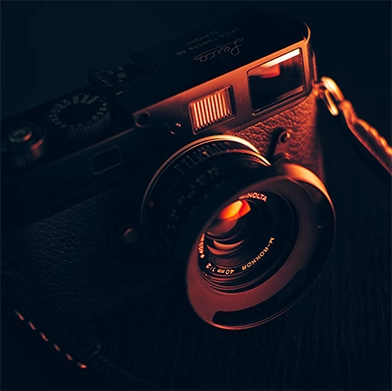
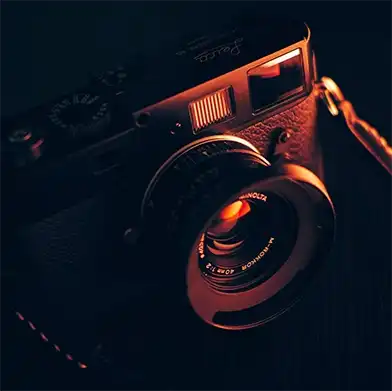
optimisation des images

diff --git a/assets/lazysizes.min.js b/assets/lazysizes.min.js
@@ -1,0 +1,3 @@
+/*! lazysizes - v5.3.2 */
+
+!function(e){var t=function(u,D,f){"use strict";var k,H;if(function(){var e;var t={lazyClass:"lazyload",loadedClass:"lazyloaded",loadingClass:"lazyloading",preloadClass:"lazypreload",errorClass:"lazyerror",autosizesClass:"lazyautosizes",fastLoadedClass:"ls-is-cached",iframeLoadMode:0,srcAttr:"data-src",srcsetAttr:"data-srcset",sizesAttr:"data-sizes",minSize:40,customMedia:{},init:true,expFactor:1.5,hFac:.8,loadMode:2,loadHidden:true,ricTimeout:0,throttleDelay:125};H=u.lazySizesConfig||u.lazysizesConfig||{};for(e in t){if(!(e in H)){H[e]=t[e]}}}(),!D||!D.getElementsByClassName){return{init:function(){},cfg:H,noSupport:true}}var O=D.documentElement,i=u.HTMLPictureElement,P="addEventListener",$="getAttribute",q=u[P].bind(u),I=u.setTimeout,U=u.requestAnimationFrame||I,o=u.requestIdleCallback,j=/^picture$/i,r=["load","error","lazyincluded","_lazyloaded"],a={},G=Array.prototype.forEach,J=function(e,t){if(!a[t]){a[t]=new RegExp("(\\s|^)"+t+"(\\s|$)")}return a[t].test(e[$]("class")||"")&&a[t]},K=function(e,t){if(!J(e,t)){e.setAttribute("class",(e[$]("class")||"").trim()+" "+t)}},Q=function(e,t){var a;if(a=J(e,t)){e.setAttribute("class",(e[$]("class")||"").replace(a," "))}},V=function(t,a,e){var i=e?P:"removeEventListener";if(e){V(t,a)}r.forEach(function(e){t[i](e,a)})},X=function(e,t,a,i,r){var n=D.createEvent("Event");if(!a){a={}}a.instance=k;n.initEvent(t,!i,!r);n.detail=a;e.dispatchEvent(n);return n},Y=function(e,t){var a;if(!i&&(a=u.picturefill||H.pf)){if(t&&t.src&&!e[$]("srcset")){e.setAttribute("srcset",t.src)}a({reevaluate:true,elements:[e]})}else if(t&&t.src){e.src=t.src}},Z=function(e,t){return(getComputedStyle(e,null)||{})[t]},s=function(e,t,a){a=a||e.offsetWidth;while(a<H.minSize&&t&&!e._lazysizesWidth){a=t.offsetWidth;t=t.parentNode}return a},ee=function(){var a,i;var t=[];var r=[];var n=t;var s=function(){var e=n;n=t.length?r:t;a=true;i=false;while(e.length){e.shift()()}a=false};var e=function(e,t){if(a&&!t){e.apply(this,arguments)}else{n.push(e);if(!i){i=true;(D.hidden?I:U)(s)}}};e._lsFlush=s;return e}(),te=function(a,e){return e?function(){ee(a)}:function(){var e=this;var t=arguments;ee(function(){a.apply(e,t)})}},ae=function(e){var a;var i=0;var r=H.throttleDelay;var n=H.ricTimeout;var t=function(){a=false;i=f.now();e()};var s=o&&n>49?function(){o(t,{timeout:n});if(n!==H.ricTimeout){n=H.ricTimeout}}:te(function(){I(t)},true);return function(e){var t;if(e=e===true){n=33}if(a){return}a=true;t=r-(f.now()-i);if(t<0){t=0}if(e||t<9){s()}else{I(s,t)}}},ie=function(e){var t,a;var i=99;var r=function(){t=null;e()};var n=function(){var e=f.now()-a;if(e<i){I(n,i-e)}else{(o||r)(r)}};return function(){a=f.now();if(!t){t=I(n,i)}}},e=function(){var v,m,c,h,e;var y,z,g,p,C,b,A;var n=/^img$/i;var d=/^iframe$/i;var E="onscroll"in u&&!/(gle|ing)bot/.test(navigator.userAgent);var _=0;var w=0;var M=0;var N=-1;var L=function(e){M--;if(!e||M<0||!e.target){M=0}};var x=function(e){if(A==null){A=Z(D.body,"visibility")=="hidden"}return A||!(Z(e.parentNode,"visibility")=="hidden"&&Z(e,"visibility")=="hidden")};var W=function(e,t){var a;var i=e;var r=x(e);g-=t;b+=t;p-=t;C+=t;while(r&&(i=i.offsetParent)&&i!=D.body&&i!=O){r=(Z(i,"opacity")||1)>0;if(r&&Z(i,"overflow")!="visible"){a=i.getBoundingClientRect();r=C>a.left&&p<a.right&&b>a.top-1&&g<a.bottom+1}}return r};var t=function(){var e,t,a,i,r,n,s,o,l,u,f,c;var d=k.elements;if((h=H.loadMode)&&M<8&&(e=d.length)){t=0;N++;for(;t<e;t++){if(!d[t]||d[t]._lazyRace){continue}if(!E||k.prematureUnveil&&k.prematureUnveil(d[t])){R(d[t]);continue}if(!(o=d[t][$]("data-expand"))||!(n=o*1)){n=w}if(!u){u=!H.expand||H.expand<1?O.clientHeight>500&&O.clientWidth>500?500:370:H.expand;k._defEx=u;f=u*H.expFactor;c=H.hFac;A=null;if(w<f&&M<1&&N>2&&h>2&&!D.hidden){w=f;N=0}else if(h>1&&N>1&&M<6){w=u}else{w=_}}if(l!==n){y=innerWidth+n*c;z=innerHeight+n;s=n*-1;l=n}a=d[t].getBoundingClientRect();if((b=a.bottom)>=s&&(g=a.top)<=z&&(C=a.right)>=s*c&&(p=a.left)<=y&&(b||C||p||g)&&(H.loadHidden||x(d[t]))&&(m&&M<3&&!o&&(h<3||N<4)||W(d[t],n))){R(d[t]);r=true;if(M>9){break}}else if(!r&&m&&!i&&M<4&&N<4&&h>2&&(v[0]||H.preloadAfterLoad)&&(v[0]||!o&&(b||C||p||g||d[t][$](H.sizesAttr)!="auto"))){i=v[0]||d[t]}}if(i&&!r){R(i)}}};var a=ae(t);var S=function(e){var t=e.target;if(t._lazyCache){delete t._lazyCache;return}L(e);K(t,H.loadedClass);Q(t,H.loadingClass);V(t,B);X(t,"lazyloaded")};var i=te(S);var B=function(e){i({target:e.target})};var T=function(e,t){var a=e.getAttribute("data-load-mode")||H.iframeLoadMode;if(a==0){e.contentWindow.location.replace(t)}else if(a==1){e.src=t}};var F=function(e){var t;var a=e[$](H.srcsetAttr);if(t=H.customMedia[e[$]("data-media")||e[$]("media")]){e.setAttribute("media",t)}if(a){e.setAttribute("srcset",a)}};var s=te(function(t,e,a,i,r){var n,s,o,l,u,f;if(!(u=X(t,"lazybeforeunveil",e)).defaultPrevented){if(i){if(a){K(t,H.autosizesClass)}else{t.setAttribute("sizes",i)}}s=t[$](H.srcsetAttr);n=t[$](H.srcAttr);if(r){o=t.parentNode;l=o&&j.test(o.nodeName||"")}f=e.firesLoad||"src"in t&&(s||n||l);u={target:t};K(t,H.loadingClass);if(f){clearTimeout(c);c=I(L,2500);V(t,B,true)}if(l){G.call(o.getElementsByTagName("source"),F)}if(s){t.setAttribute("srcset",s)}else if(n&&!l){if(d.test(t.nodeName)){T(t,n)}else{t.src=n}}if(r&&(s||l)){Y(t,{src:n})}}if(t._lazyRace){delete t._lazyRace}Q(t,H.lazyClass);ee(function(){var e=t.complete&&t.naturalWidth>1;if(!f||e){if(e){K(t,H.fastLoadedClass)}S(u);t._lazyCache=true;I(function(){if("_lazyCache"in t){delete t._lazyCache}},9)}if(t.loading=="lazy"){M--}},true)});var R=function(e){if(e._lazyRace){return}var t;var a=n.test(e.nodeName);var i=a&&(e[$](H.sizesAttr)||e[$]("sizes"));var r=i=="auto";if((r||!m)&&a&&(e[$]("src")||e.srcset)&&!e.complete&&!J(e,H.errorClass)&&J(e,H.lazyClass)){return}t=X(e,"lazyunveilread").detail;if(r){re.updateElem(e,true,e.offsetWidth)}e._lazyRace=true;M++;s(e,t,r,i,a)};var r=ie(function(){H.loadMode=3;a()});var o=function(){if(H.loadMode==3){H.loadMode=2}r()};var l=function(){if(m){return}if(f.now()-e<999){I(l,999);return}m=true;H.loadMode=3;a();q("scroll",o,true)};return{_:function(){e=f.now();k.elements=D.getElementsByClassName(H.lazyClass);v=D.getElementsByClassName(H.lazyClass+" "+H.preloadClass);q("scroll",a,true);q("resize",a,true);q("pageshow",function(e){if(e.persisted){var t=D.querySelectorAll("."+H.loadingClass);if(t.length&&t.forEach){U(function(){t.forEach(function(e){if(e.complete){R(e)}})})}}});if(u.MutationObserver){new MutationObserver(a).observe(O,{childList:true,subtree:true,attributes:true})}else{O[P]("DOMNodeInserted",a,true);O[P]("DOMAttrModified",a,true);setInterval(a,999)}q("hashchange",a,true);["focus","mouseover","click","load","transitionend","animationend"].forEach(function(e){D[P](e,a,true)});if(/d$|^c/.test(D.readyState)){l()}else{q("load",l);D[P]("DOMContentLoaded",a);I(l,2e4)}if(k.elements.length){t();ee._lsFlush()}else{a()}},checkElems:a,unveil:R,_aLSL:o}}(),re=function(){var a;var n=te(function(e,t,a,i){var r,n,s;e._lazysizesWidth=i;i+="px";e.setAttribute("sizes",i);if(j.test(t.nodeName||"")){r=t.getElementsByTagName("source");for(n=0,s=r.length;n<s;n++){r[n].setAttribute("sizes",i)}}if(!a.detail.dataAttr){Y(e,a.detail)}});var i=function(e,t,a){var i;var r=e.parentNode;if(r){a=s(e,r,a);i=X(e,"lazybeforesizes",{width:a,dataAttr:!!t});if(!i.defaultPrevented){a=i.detail.width;if(a&&a!==e._lazysizesWidth){n(e,r,i,a)}}}};var e=function(){var e;var t=a.length;if(t){e=0;for(;e<t;e++){i(a[e])}}};var t=ie(e);return{_:function(){a=D.getElementsByClassName(H.autosizesClass);q("resize",t)},checkElems:t,updateElem:i}}(),t=function(){if(!t.i&&D.getElementsByClassName){t.i=true;re._();e._()}};return I(function(){H.init&&t()}),k={cfg:H,autoSizer:re,loader:e,init:t,uP:Y,aC:K,rC:Q,hC:J,fire:X,gW:s,rAF:ee}}(e,e.document,Date);e.lazySizes=t,"object"==typeof module&&module.exports&&(module.exports=t)}("undefined"!=typeof window?window:{});

diff --git a/index.html b/index.html
@@ -2,21 +2,24 @@
 <html lang="fr">
 
 <head>
-	<title>Nina Carducci - Photographe</title>
 	<meta charset="utf-8" />
 	<meta name="viewport" content="width=device-width, initial-scale=1.0">
-	<meta name="description" content="Nina Carducci - Photographe">
+
+	<!-- <link rel="preconnect" href="https://fonts.googleapis.com"> -->
+	<link rel="preconnect" href="https://fonts.gstatic.com" crossorigin>
+	<link href="https://fonts.googleapis.com/css2?family=Inter&family=Spectral:ital,wght@0,400;1,300;1,400;1,800&display=swap" rel="stylesheet">
+
+	<link rel="stylesheet" href="./assets/bootstrap/bootstrap.min.css">
+	<link rel="stylesheet" href="./assets/style.min.css" media="all">
+
+	<title>Photographe - Nina Carducci</title>
+	<meta name="description" content="Photographe - Nina Carducci">
 	<meta name="theme-color" content="#FFFFFF" />
+
 </head>
 
 <body>
-	<link media="all" rel="stylesheet" href="https://cdn.jsdelivr.net/npm/bootstrap@5.3.2/dist/css/bootstrap.min.css"
-		integrity="sha384-T3c6CoIi6uLrA9TneNEoa7RxnatzjcDSCmG1MXxSR1GAsXEV/Dwwykc2MPK8M2HN" crossorigin="anonymous">
-	<link media="all" rel="stylesheet" href="./assets/style.min.css">
-	<link media="all" rel="preconnect" href="https://fonts.gstatic.com" crossorigin="">
-	<link media="all" rel="preconnect"
-		href="https://fonts.googleapis.com/css2?family=Inter&amp;family=Spectral:ital,wght@0,400;1,300;1,400;1,800&amp;display=swap"
-		as="style" onload="this.onload=null;this.rel='stylesheet'">
+
 
 	<div class="top-header">
 		<h1 class="name">Nina Carducci</h1>
@@ -44,22 +47,23 @@
 			</div>
 			<div class="carousel-inner">
 				<div class="carousel-item active">
-					<img srcset="./assets/images/slider/ryoji-iwata-wUZjnOv7t0g-unsplash-1440.webp 1100w,
-					./assets/images/slider/ryoji-iwata-wUZjnOv7t0g-unsplash-720.webp 720w" 
-					src="./assets/images/slider/ryoji-iwata-wUZjnOv7t0g-unsplash-1440.webp"
-					class="d-block w-100 lazy" alt="Homme traverstant la rue">
+					<img src="./assets/images/slider/ryoji-iwata-wUZjnOv7t0g-unsplash-1440.webp"
+					class="d-block w-100 lazyload" alt="Homme traverstant la rue" 
+					srcset="./assets/images/slider/ryoji-iwata-wUZjnOv7t0g-unsplash-1440.webp 1100w,
+					./assets/images/slider/ryoji-iwata-wUZjnOv7t0g-unsplash-720.webp 720w" >
 				</div>
 				<div class="carousel-item">
-					<img srcset="./assets/images/slider/nicholas-green-nPz8akkUmDI-unsplash-1100.webp 1100w, 
-					./assets/images/slider/ryoji-iwata-wUZjnOv7t0g-unsplash-720.webp 720w"
-					src="./assets/images/slider/ryoji-iwata-wUZjnOv7t0g-unsplash-1440.webp" 
-					class="d-block w-100 lazy" alt="Spectateurs durant un concert">
+					<img src="./assets/images/slider/ryoji-iwata-wUZjnOv7t0g-unsplash-1440.webp" 
+					class="d-block w-100 lazyload" alt="Spectateurs durant un concert" loading="lazy"
+					srcset="./assets/images/slider/nicholas-green-nPz8akkUmDI-unsplash-1100.webp 1100w, 
+					./assets/images/slider/ryoji-iwata-wUZjnOv7t0g-unsplash-720.webp 720w">
 				</div>
 				<div class="carousel-item">
-					<img srcset="./assets/images/slider/edward-cisneros-3_h6-1NPDGw-unsplash-1100.webp 1100w,
-					./assets/images/slider/edward-cisneros-3_h6-1NPDGw-unsplash-720.webp 720w"
-					src="./assets/images/slider/edward-cisneros-3_h6-1NPDGw-unsplash-1440.webp"
-						class="d-block w-100 lazy" alt="Mariage d'un couple">
+					<img src="./assets/images/slider/edward-cisneros-3_h6-1NPDGw-unsplash-1440.webp"
+					class="d-block w-100 lazyload" alt="Mariage d'un couple" loading="lazy"
+					srcset="./assets/images/slider/edward-cisneros-3_h6-1NPDGw-unsplash-1100.webp 1100w,
+					./assets/images/slider/edward-cisneros-3_h6-1NPDGw-unsplash-720.webp 720w">
+					
 				</div>
 			</div>
 			<button class="carousel-control-prev" type="button" data-bs-target="#carouselExampleIndicators"
@@ -76,7 +80,7 @@
 	</div>
 	<div id="about">
 		<div class="picture left">
-			<img src="./assets/images/nina copie.webp" class="lazyload" alt="Photo de Nina Carducci">
+			<img src="./assets/images/nina.webp" class="lazyload" alt="Photo de Nina Carducci">
 		</div>
 		<div id="about-me">
 			<h2 class="about-me__title">A propos de moi</h2>
@@ -95,7 +99,7 @@
 		<h2 class="title">Portfolio</h2>
 		<div class="container py-3">
 			<div class="gallery" style="display: none">
-				<img data-gallery-tag="Concert" class="gallery-item "
+				<img data-gallery-tag="Concert" class="gallery-item"
 					src="./assets/images/gallery/concerts/aaron-paul-wnX-fXzB6Cw-unsplash.webp"
 					alt="Concert vu du public" loading="lazy" />
 				<img data-gallery-tag="Entreprises" class="gallery-item"
@@ -111,7 +115,7 @@
 					src="./assets/images/gallery/portraits/ade-tunji-rVkhWWZFAtQ-unsplash.webp"
 					alt="Portrait d'un homme au soleil" loading="lazy" />
 				<img data-gallery-tag="Mariages" class="gallery-item"
-					src="./assets/images/gallery/mariage/jakob-owens-SiniLJkXhMc-unsplash copie.webp"
+					src="./assets/images/gallery/mariage/jakob-owens-SiniLJkXhMc-unsplash.webp"
 					alt="Mariage d'un couple heureux" loading="lazy" />
 				<img data-gallery-tag="Portrait" class="gallery-item"
 					src="./assets/images/gallery/portraits/nino-van-prattenburg--443cl1uR_8-unsplash.webp"
@@ -205,13 +209,10 @@
 		</div>
 	</div>
 
-	<script defer src="https://cdn.jsdelivr.net/npm/bootstrap@5.3.2/dist/js/bootstrap.bundle.min.js"
-		integrity="sha384-C6RzsynM9kWDrMNeT87bh95OGNyZPhcTNXj1NW7RuBCsyN/o0jlpcV8Qyq46cDfL"
-		crossorigin="anonymous"></script>
-	<script defer src="https://code.jquery.com/jquery-3.4.1.min.js"
-		integrity="sha256-CSXorXvZcTkaix6Yvo6HppcZGetbYMGWSFlBw8HfCJo=" crossorigin="anonymous"></script>
-	<script defer src="./assets/maugallery.min.js"></script>
-	<script defer src="./assets/scripts.js"></script>
+	<script src="./assets/bootstrap/bootstrap.bundle.min.js"></script>
+	<script src="https://code.jquery.com/jquery-3.6.4.min.js" integrity="sha256-oP6HI9z1XaZNBrJURtCoUT5SUnxFr8s3BzRl+cbzUq8=" crossorigin="anonymous"></script>
+	<script src="./assets/scripts.js" defer></script>
+	<script src="./assets/maugallery.min.js" defer></script>
 
 </body>
 

diff --git a/assets/scripts.js b/assets/scripts.js
@@ -1,15 +1,1 @@
-$(document).ready(function() {
-    $('.gallery').mauGallery({
-        columns: {
-            xs: 1,
-            sm: 2,
-            md: 3,
-            lg: 3,
-            xl: 3
-        },
-        lightBox: true,
-        lightboxId: 'myAwesomeLightbox',
-        showTags: true,
-        tagsPosition: 'top'
-    });
-});
+$(document).ready(function(){$(".gallery").mauGallery({columns:{xs:1,sm:2,md:3,lg:3,xl:3},lightBox:!0,lightboxId:"myAwesomeLightbox",showTags:!0,tagsPosition:"top"})});
